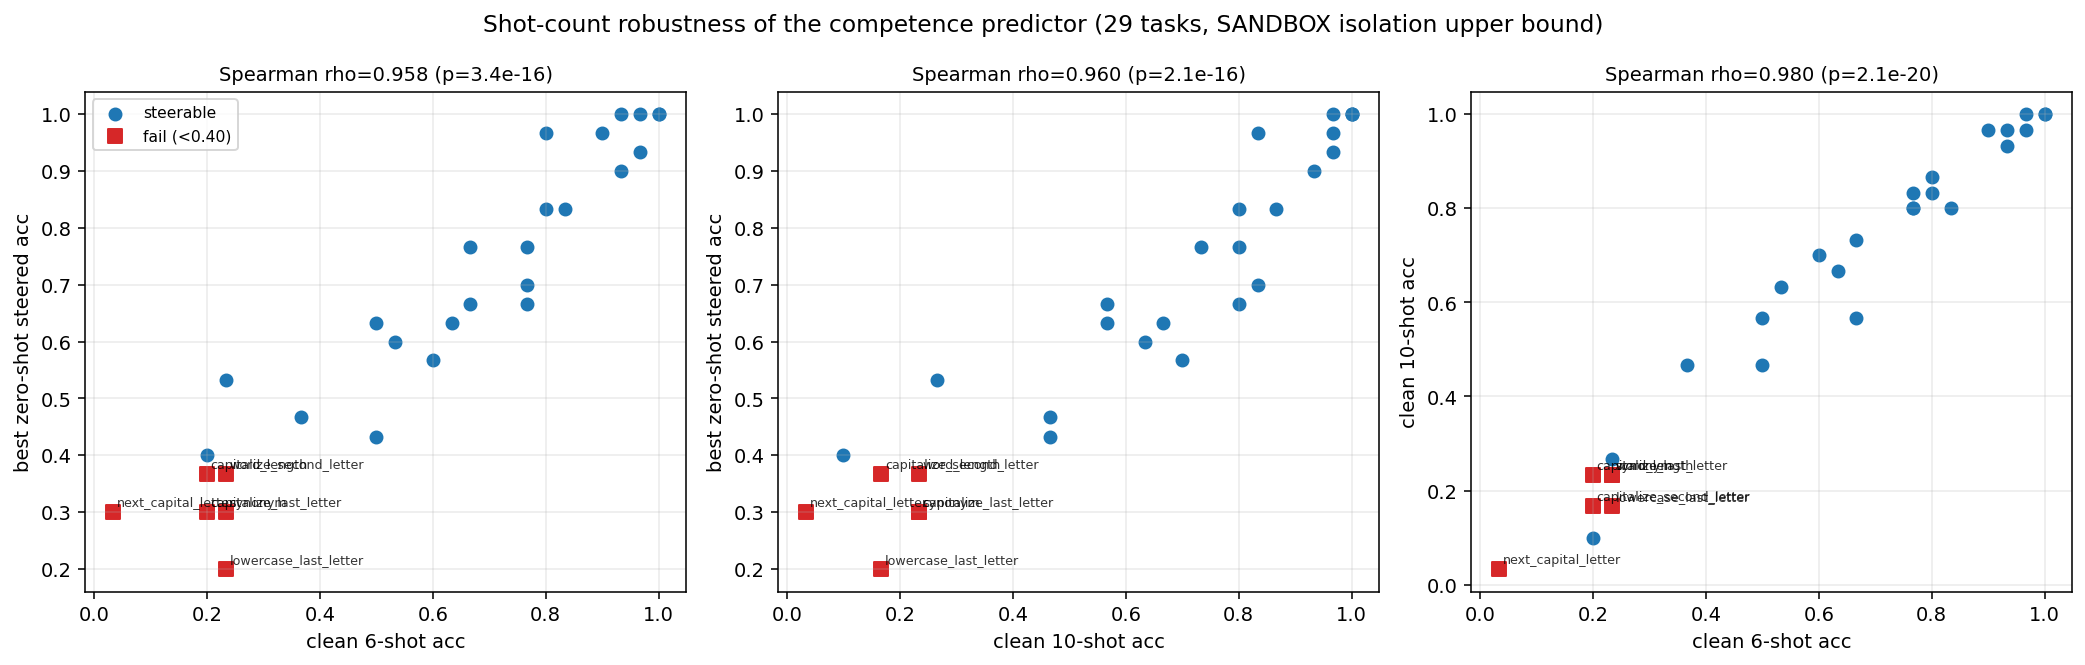
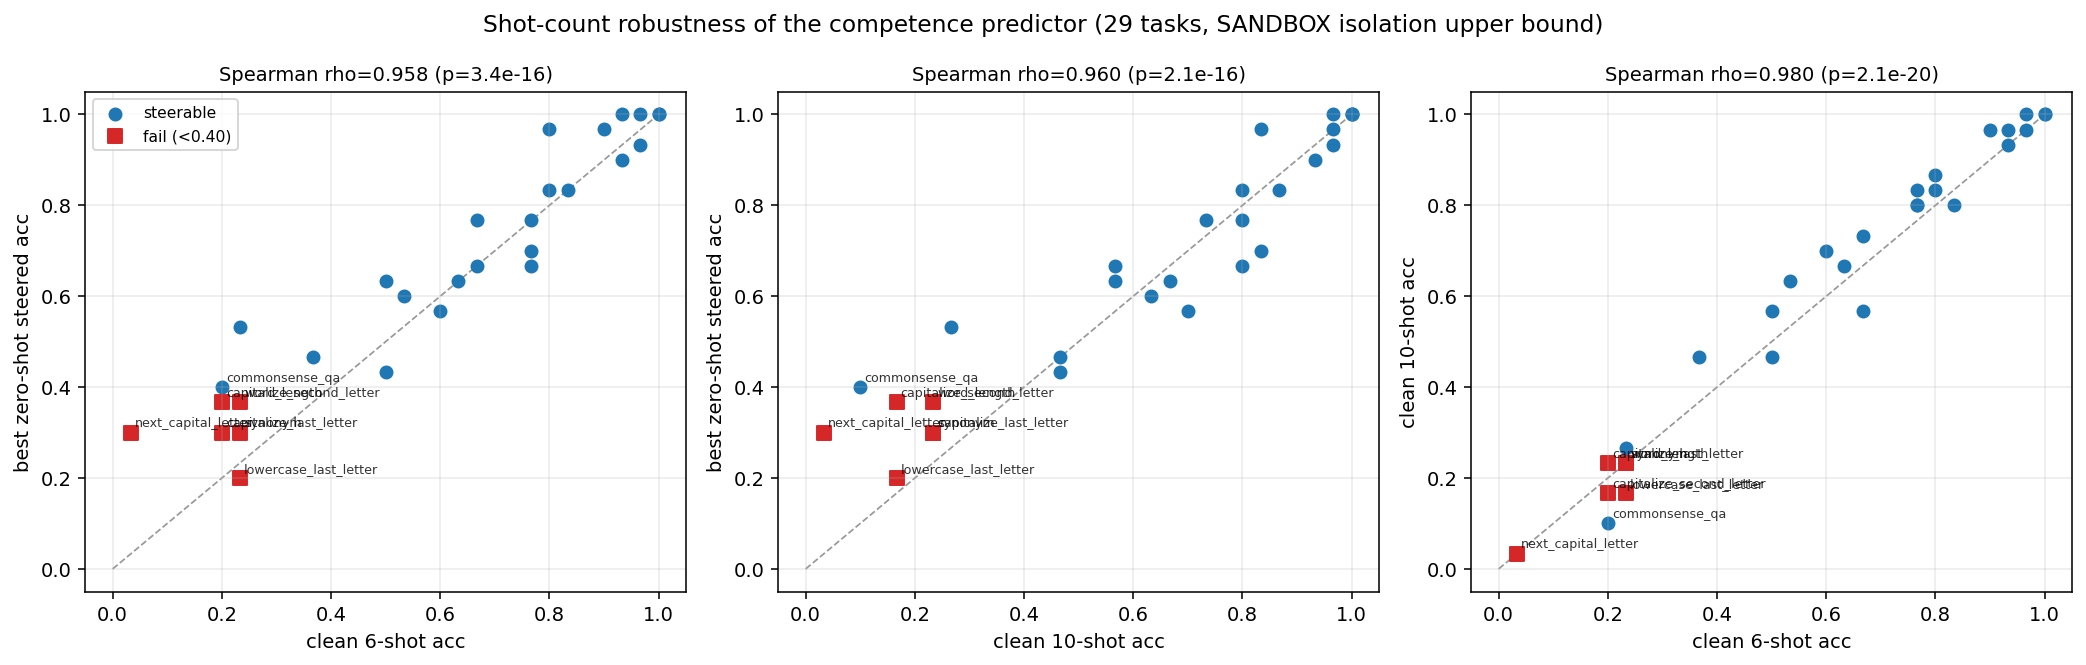
Scatter polish: y=x reference lines + commonsense_qa borderline annotation

diff --git a/src/sandbox/isolation_upper_bound/plot_clean6_vs_clean10.py b/src/sandbox/isolation_upper_bound/plot_clean6_vs_clean10.py
@@ -42,10 +42,13 @@ def main():
     fig, axes = plt.subplots(1, 3, figsize=(15, 4.8), dpi=140)
     for ax, (a, b, xl, yl) in zip(axes, panels):
         rho, p = spearmanr(a, b)
+        # y=x reference: steered acc ~ ICL ceiling (panels 1-2), clean6 ~ clean10 (panel 3)
+        ax.plot([0, 1], [0, 1], color="0.6", ls="--", lw=0.9, zorder=0)
         ax.scatter(a[~fail], b[~fail], c="tab:blue", s=38, label="steerable")
         ax.scatter(a[fail], b[fail], c="tab:red", s=48, marker="s", label="fail (<0.40)")
         for ai, bi, t in zip(a, b, tasks):
-            if fail[tasks.index(t)]:
+            # commonsense_qa: borderline case, steers ABOVE its ICL ceiling
+            if fail[tasks.index(t)] or t == "commonsense_qa":
                 ax.annotate(t, (ai, bi), fontsize=6.5, alpha=0.8,
                             xytext=(2, 3), textcoords="offset points")
         ax.set_xlabel(xl); ax.set_ylabel(yl)
